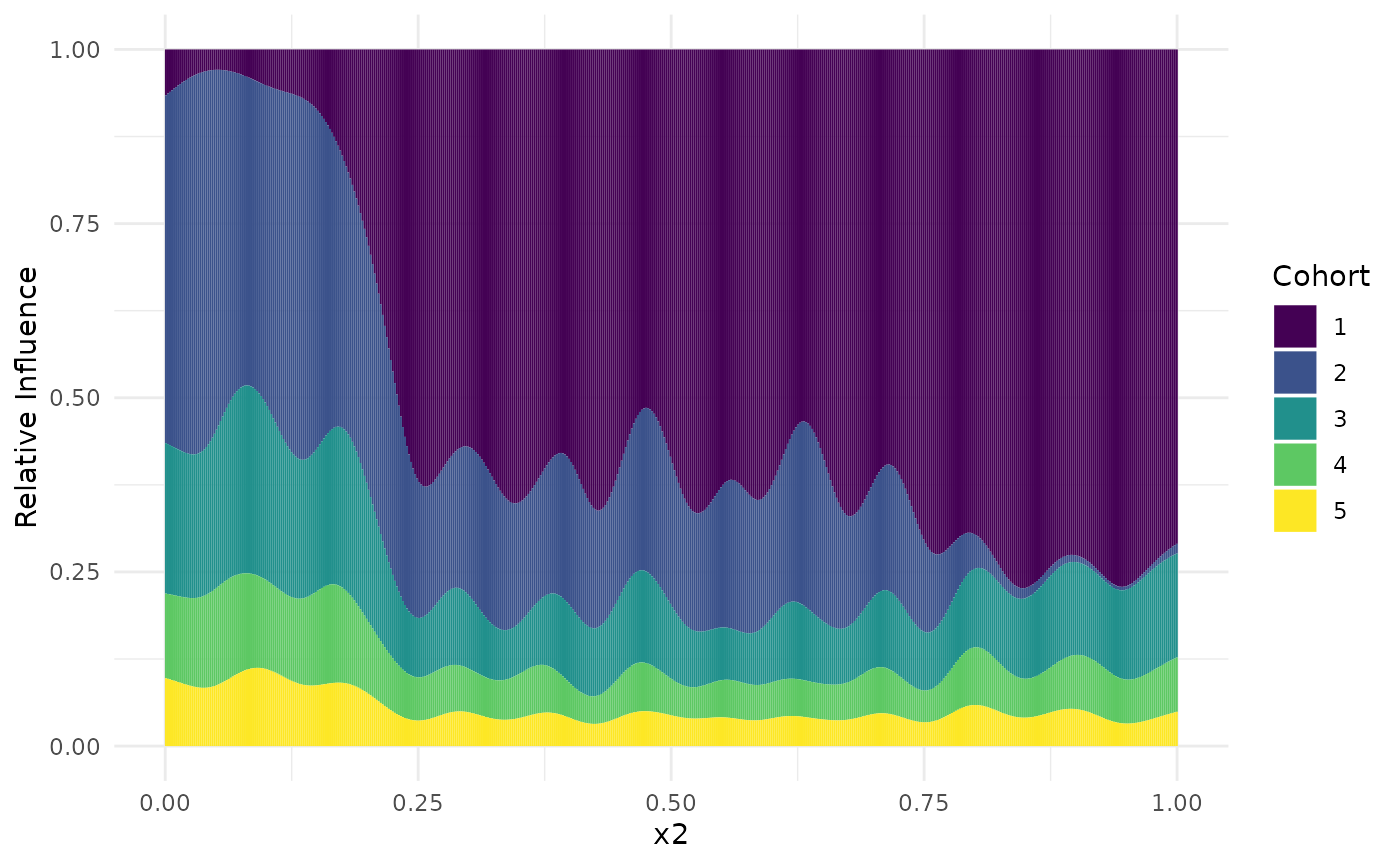
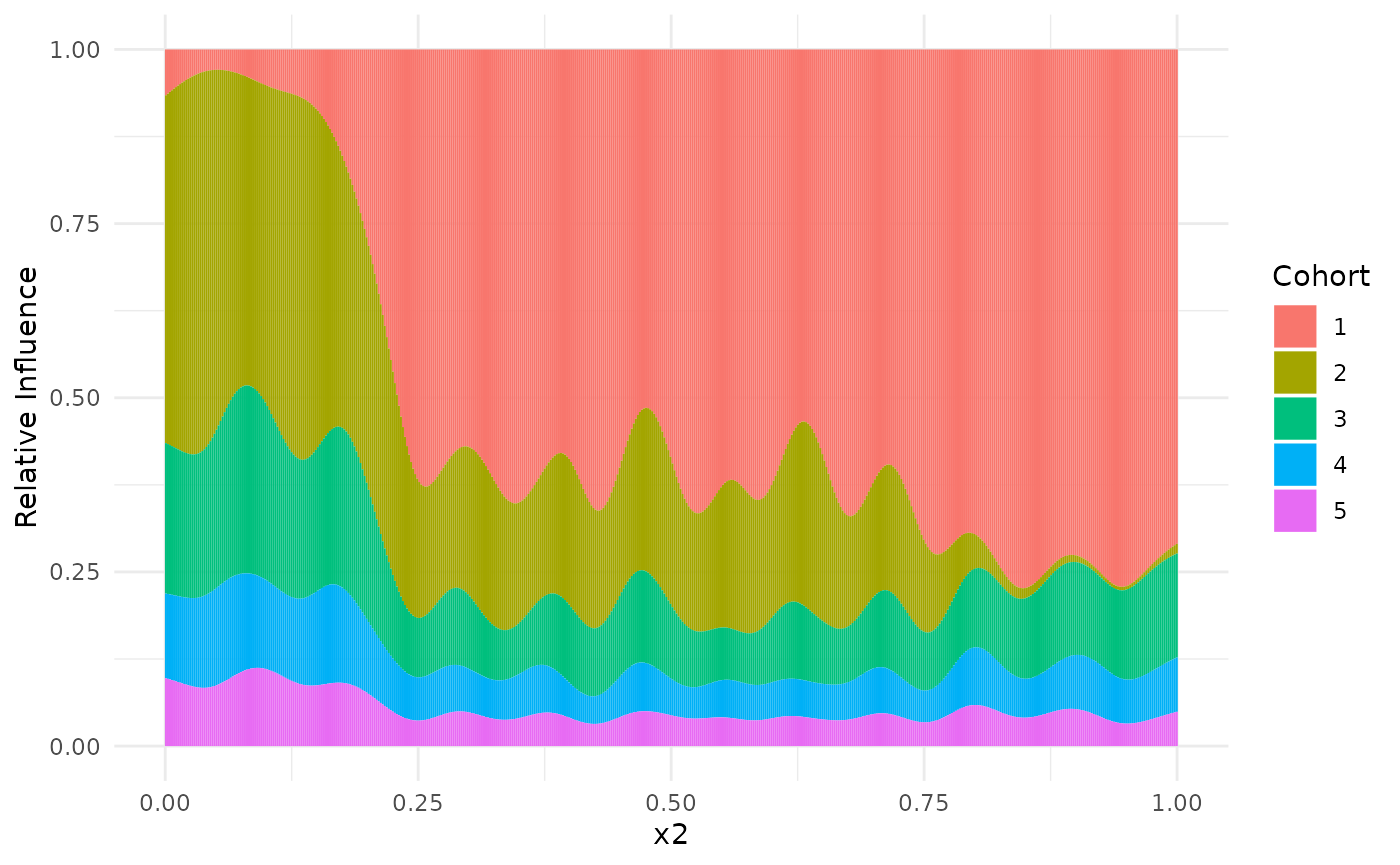
Built site for metagam: 0.2.0.9001@1d82548

diff --git a/articles/dominance.html b/articles/dominance.html
@@ -38,7 +38,7 @@
       </button>
       <span class="navbar-brand">
         <a class="navbar-link" href="../index.html">metagam</a>
-        <span class="version label label-default" data-toggle="tooltip" data-placement="bottom" title="Released version">0.2.0.9000</span>
+        <span class="version label label-default" data-toggle="tooltip" data-placement="bottom" title="Released version">0.2.0.9001</span>
       </span>
     </div>
 
@@ -137,11 +137,7 @@
 <a href="#dominance-analysis" class="anchor"></a>Dominance Analysis</h2>
 <p>Finally, we create a dominance plot that tells us how much the points on axis <code>x2</code> are influenced by the individual GAMs. Since <code>plot_dominance</code> returns a ggplot object, we can modify the colors using, e.g. the viridis package. We see that the influence of the GAMs is graded according to the simulated noise levels. Second, we see that on the left-hand side, the influence of the first dataset is almost zero whereas the influence of the second dataset is almost zero on the righthand side.</p>
 <div class="sourceCode" id="cb6"><pre class="downlit sourceCode r">
-<code class="sourceCode R"><span class="kw"><a href="https://rdrr.io/r/base/library.html">library</a></span><span class="op">(</span><span class="va"><a href="https://sjmgarnier.github.io/viridis/">viridis</a></span><span class="op">)</span></code></pre></div>
-<pre><code>## Loading required package: viridisLite</code></pre>
-<div class="sourceCode" id="cb8"><pre class="downlit sourceCode r">
-<code class="sourceCode R"><span class="fu"><a href="../reference/plot_dominance.html">plot_dominance</a></span><span class="op">(</span><span class="va">meta_analysis</span><span class="op">)</span> <span class="op">+</span>
-  <span class="fu"><a href="https://sjmgarnier.github.io/viridis/reference/scale_viridis.html">scale_fill_viridis</a></span><span class="op">(</span>discrete <span class="op">=</span> <span class="cn">TRUE</span><span class="op">)</span></code></pre></div>
+<code class="sourceCode R"><span class="fu"><a href="../reference/plot_dominance.html">plot_dominance</a></span><span class="op">(</span><span class="va">meta_analysis</span><span class="op">)</span></code></pre></div>
 <p><img src="dominance_files/figure-html/unnamed-chunk-6-1.png" width="700"></p>
 </div>
   </div>

diff --git a/news.html b/news.html
@@ -6,7 +6,7 @@
 <meta http-equiv="X-UA-Compatible" content="IE=edge">
 <meta name="viewport" content="width=device-width, initial-scale=1.0">
 
-<title>metagam version 0.2.0.9000 • metagam</title>
+<title>metagam version 0.2.0.9001 • metagam</title>
 
 <!-- favicons -->
 <link rel="icon" type="image/png" sizes="16x16" href="favicon-16x16.png">
@@ -46,7 +46,7 @@
 
 
 
-<meta property="og:title" content="metagam version 0.2.0.9000" />
+<meta property="og:title" content="metagam version 0.2.0.9001" />
 <meta property="og:image" content="/logo.png" />
 
 
@@ -79,7 +79,7 @@
       </button>
       <span class="navbar-brand">
         <a class="navbar-link" href="index.html">metagam</a>
-        <span class="version label label-default" data-toggle="tooltip" data-placement="bottom" title="Released version">0.2.0.9000</span>
+        <span class="version label label-default" data-toggle="tooltip" data-placement="bottom" title="Released version">0.2.0.9001</span>
       </span>
     </div>
 
@@ -130,12 +130,19 @@
 <div class="row">
   <div class="contents col-md-9">
     <div class="page-header">
-      <h1>metagam version 0.2.0.9000</h1>
+      <h1>metagam version 0.2.0.9001</h1>
     </div>
 
 
-<div id="metagam-version-0209000" class="section level1">
+<div id="metagam-version-0209001" class="section level1">
 
+<ul>
+<li>removed viridis from Suggests, to reduce the number of dependencies.</li>
+</ul>
+</div>
+<div id="metagam-version-0209000" class="section level1">
+<h1 class="hasAnchor">
+<a href="#metagam-version-0209000" class="anchor"></a>metagam version 0.2.0.9000</h1>
 <ul>
 <li>Parallelism support removed, because it was buggy. Will refactor the code before considering adding it back.</li>
 </ul>

diff --git a/reference/strip_rawdata.html b/reference/strip_rawdata.html
@@ -82,7 +82,7 @@ shared without exposing individual participant data." />
       </button>
       <span class="navbar-brand">
         <a class="navbar-link" href="../index.html">metagam</a>
-        <span class="version label label-default" data-toggle="tooltip" data-placement="bottom" title="Released version">0.2.0.9000</span>
+        <span class="version label label-default" data-toggle="tooltip" data-placement="bottom" title="Released version">0.2.0.9001</span>
       </span>
     </div>
 

diff --git a/reference/make_heterogeneity_data.html b/reference/make_heterogeneity_data.html
@@ -81,7 +81,7 @@ data for heterogeneity plots" />
       </button>
       <span class="navbar-brand">
         <a class="navbar-link" href="../index.html">metagam</a>
-        <span class="version label label-default" data-toggle="tooltip" data-placement="bottom" title="Released version">0.2.0.9000</span>
+        <span class="version label label-default" data-toggle="tooltip" data-placement="bottom" title="Released version">0.2.0.9001</span>
       </span>
     </div>
 

diff --git a/reference/plot_dominance.html b/reference/plot_dominance.html
@@ -82,7 +82,7 @@ by certain individual GAMs." />
       </button>
       <span class="navbar-brand">
         <a class="navbar-link" href="../index.html">metagam</a>
-        <span class="version label label-default" data-toggle="tooltip" data-placement="bottom" title="Released version">0.2.0.9000</span>
+        <span class="version label label-default" data-toggle="tooltip" data-placement="bottom" title="Released version">0.2.0.9001</span>
       </span>
     </div>
 

diff --git a/reference/plot_heterogeneity_p.html b/reference/plot_heterogeneity_p.html
@@ -81,7 +81,7 @@ the heterogeneity p values" />
       </button>
       <span class="navbar-brand">
         <a class="navbar-link" href="../index.html">metagam</a>
-        <span class="version label label-default" data-toggle="tooltip" data-placement="bottom" title="Released version">0.2.0.9000</span>
+        <span class="version label label-default" data-toggle="tooltip" data-placement="bottom" title="Released version">0.2.0.9001</span>
       </span>
     </div>
 

diff --git a/reference/plot_heterogeneity_q.html b/reference/plot_heterogeneity_q.html
@@ -81,7 +81,7 @@ the heterogeneity Q values" />
       </button>
       <span class="navbar-brand">
         <a class="navbar-link" href="../index.html">metagam</a>
-        <span class="version label label-default" data-toggle="tooltip" data-placement="bottom" title="Released version">0.2.0.9000</span>
+        <span class="version label label-default" data-toggle="tooltip" data-placement="bottom" title="Released version">0.2.0.9001</span>
       </span>
     </div>
 

diff --git a/articles/heterogeneity.html b/articles/heterogeneity.html
@@ -38,7 +38,7 @@
       </button>
       <span class="navbar-brand">
         <a class="navbar-link" href="../index.html">metagam</a>
-        <span class="version label label-default" data-toggle="tooltip" data-placement="bottom" title="Released version">0.2.0.9000</span>
+        <span class="version label label-default" data-toggle="tooltip" data-placement="bottom" title="Released version">0.2.0.9001</span>
       </span>
     </div>
 

diff --git a/articles/index.html b/articles/index.html
@@ -79,7 +79,7 @@
       </button>
       <span class="navbar-brand">
         <a class="navbar-link" href="../index.html">metagam</a>
-        <span class="version label label-default" data-toggle="tooltip" data-placement="bottom" title="Released version">0.2.0.9000</span>
+        <span class="version label label-default" data-toggle="tooltip" data-placement="bottom" title="Released version">0.2.0.9001</span>
       </span>
     </div>
 

diff --git a/articles/introduction.html b/articles/introduction.html
@@ -38,7 +38,7 @@
       </button>
       <span class="navbar-brand">
         <a class="navbar-link" href="../index.html">metagam</a>
-        <span class="version label label-default" data-toggle="tooltip" data-placement="bottom" title="Released version">0.2.0.9000</span>
+        <span class="version label label-default" data-toggle="tooltip" data-placement="bottom" title="Released version">0.2.0.9001</span>
       </span>
     </div>
 

diff --git a/articles/multivariate.html b/articles/multivariate.html
@@ -38,7 +38,7 @@
       </button>
       <span class="navbar-brand">
         <a class="navbar-link" href="../index.html">metagam</a>
-        <span class="version label label-default" data-toggle="tooltip" data-placement="bottom" title="Released version">0.2.0.9000</span>
+        <span class="version label label-default" data-toggle="tooltip" data-placement="bottom" title="Released version">0.2.0.9001</span>
       </span>
     </div>
 

diff --git a/reference/index.html b/reference/index.html
@@ -79,7 +79,7 @@
       </button>
       <span class="navbar-brand">
         <a class="navbar-link" href="../index.html">metagam</a>
-        <span class="version label label-default" data-toggle="tooltip" data-placement="bottom" title="Released version">0.2.0.9000</span>
+        <span class="version label label-default" data-toggle="tooltip" data-placement="bottom" title="Released version">0.2.0.9001</span>
       </span>
     </div>
 
